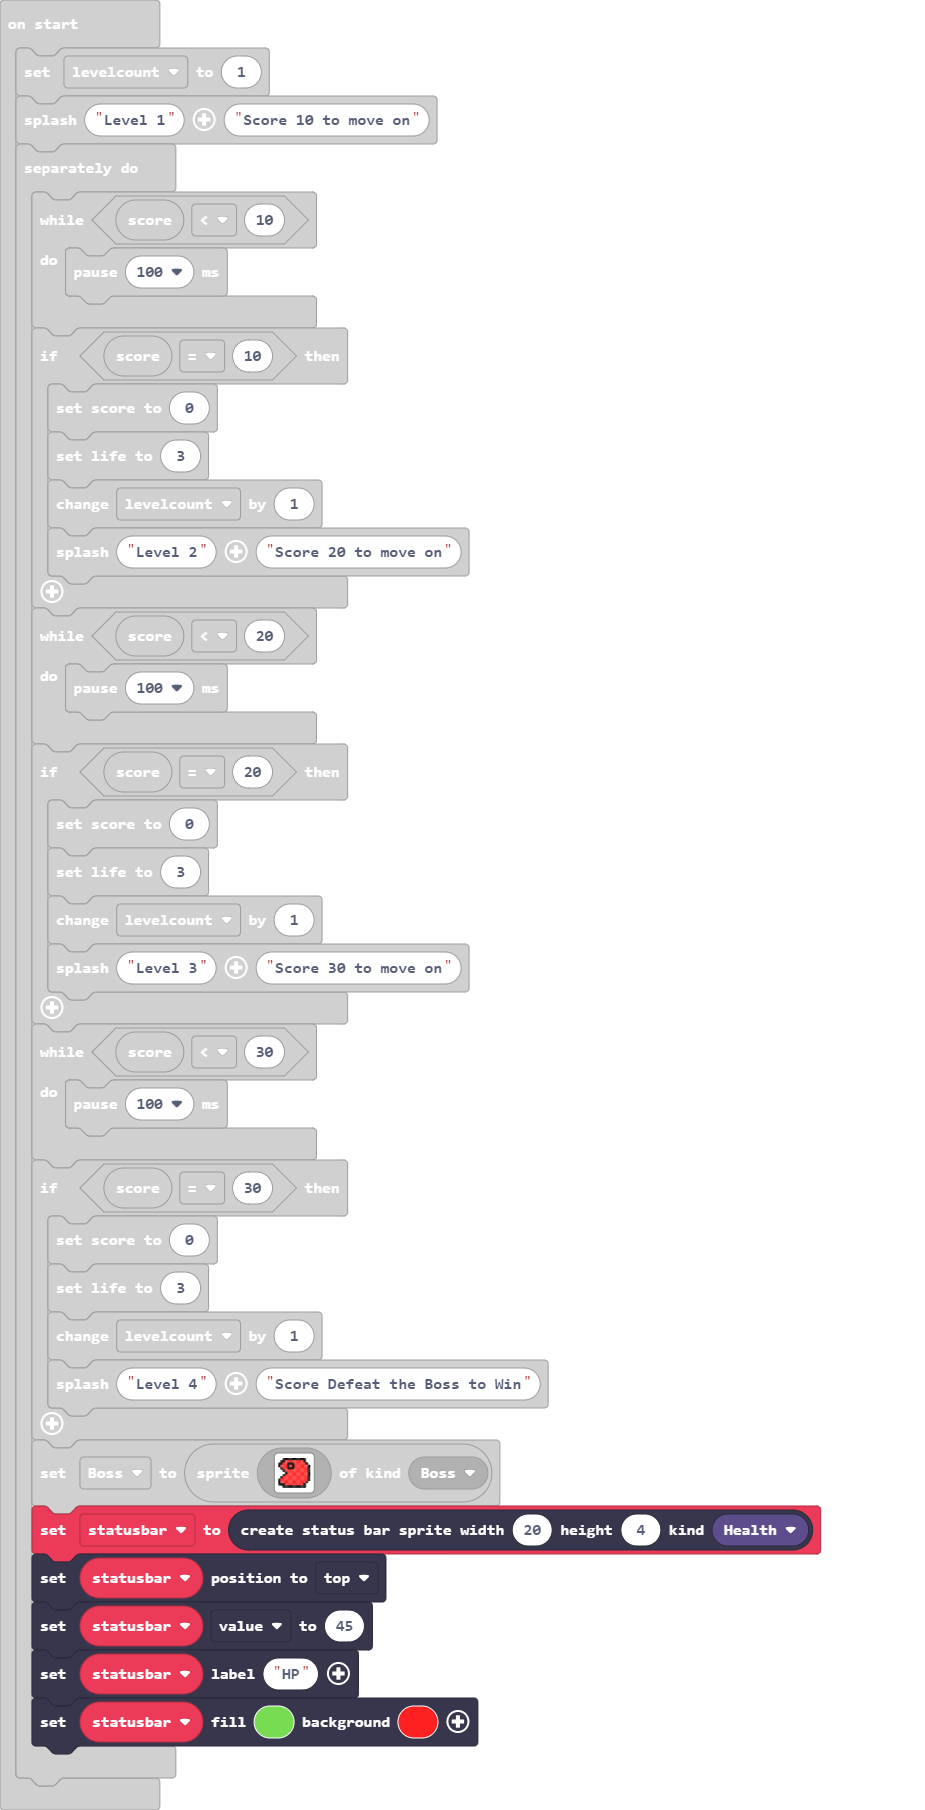
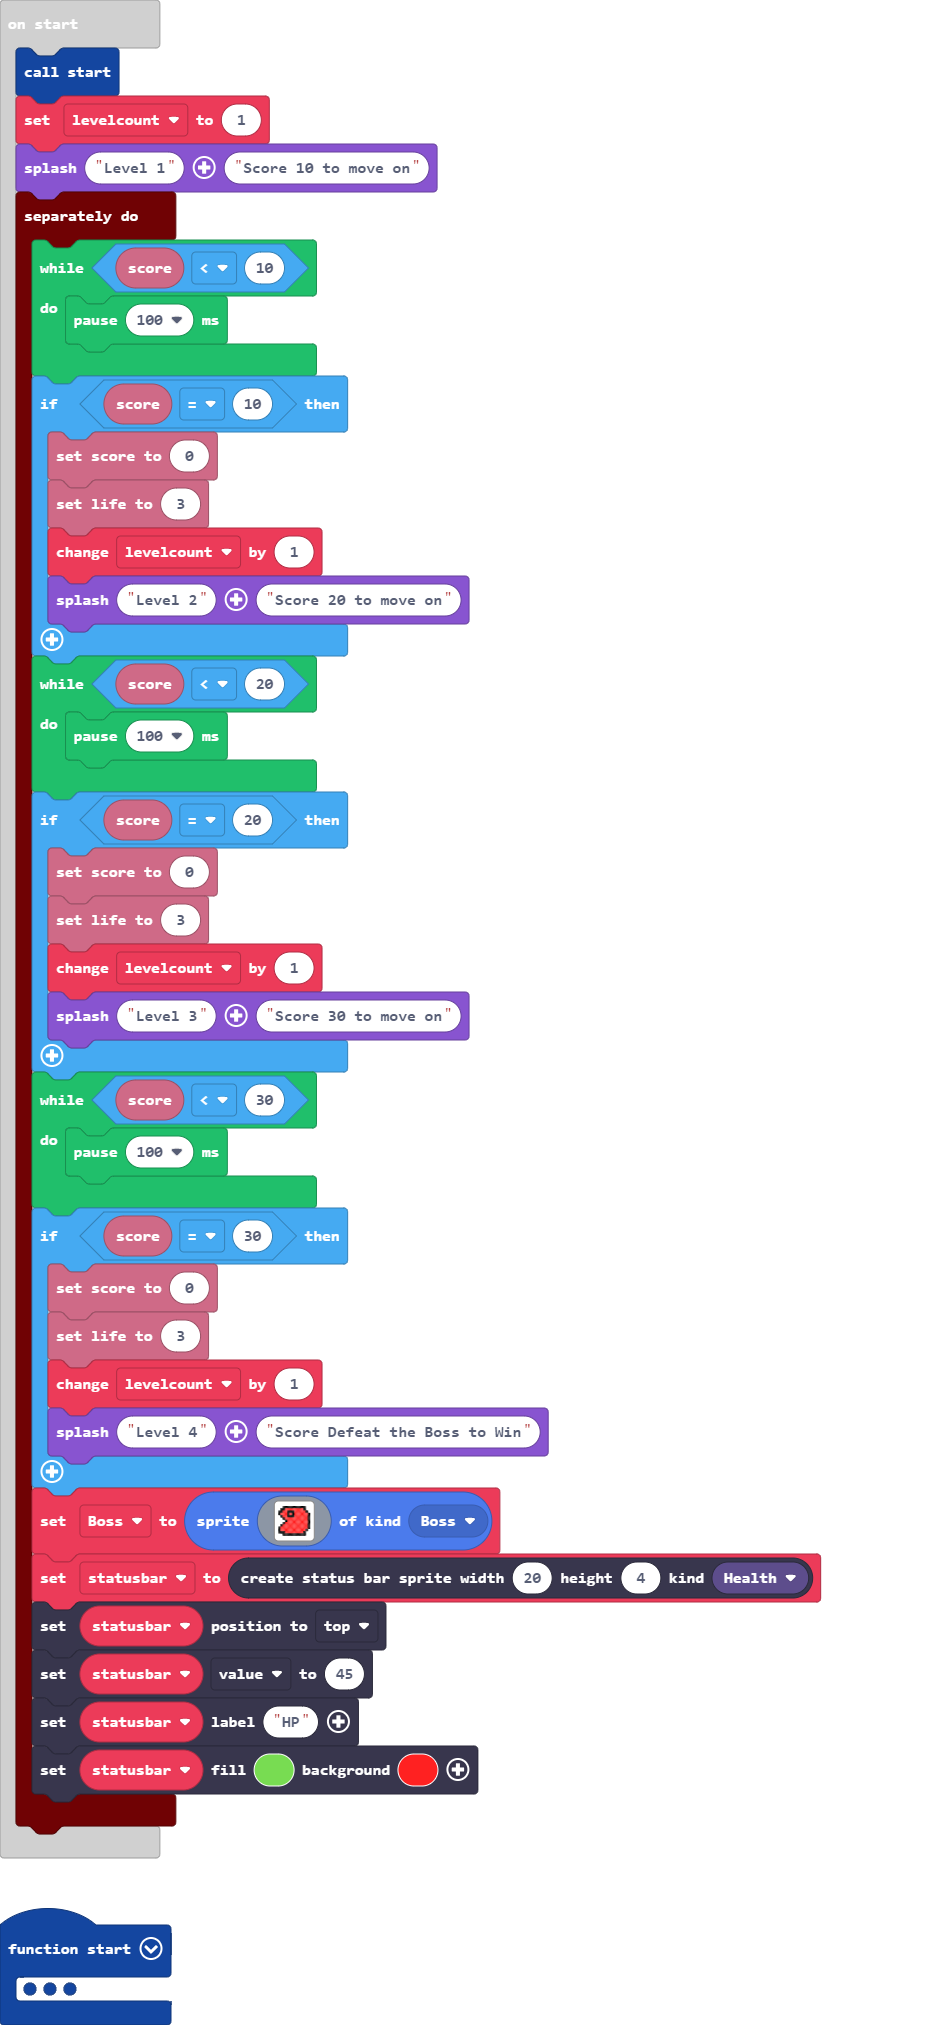
Recreated Start

diff --git a/main.ts b/main.ts
@@ -3,7 +3,6 @@ namespace SpriteKind {
     export const Boss = SpriteKind.create()
 }
 controller.A.onEvent(ControllerButtonEvent.Pressed, function () {
-    let spaceship: Sprite = null
     music.pewPew.play()
     dart = sprites.createProjectileFromSprite(img`
         . . . . . . . . . . . . . . . . 
@@ -39,6 +38,25 @@ sprites.onOverlap(SpriteKind.Player, SpriteKind.Food, function (sprite, otherSpr
     otherSprite.destroy(effects.hearts, 500)
     info.changeLifeBy(1)
 })
+function start () {
+    spaceship = sprites.create(img`
+        . . f f f f f f f f f f f f . . 
+        . . f 5 5 5 5 5 5 5 5 5 5 f f . 
+        . f 5 5 5 5 5 5 5 f f f 5 5 f f 
+        f 5 5 5 5 5 5 5 5 f 1 f 5 5 5 f 
+        f 5 5 5 5 5 5 5 5 f f f 5 5 f . 
+        f 5 5 5 5 5 5 5 5 5 5 5 5 f . . 
+        f 5 5 5 5 5 5 5 5 5 5 5 f . . . 
+        f 5 5 5 5 5 5 5 5 5 5 5 5 f . . 
+        f 5 5 5 5 5 5 5 5 5 5 5 5 5 f . 
+        . f 5 5 5 5 5 5 5 5 5 5 5 5 5 f 
+        . . f 5 5 5 5 5 5 5 5 5 5 f f f 
+        . . f f f f f f f f f f f f . . 
+        `, SpriteKind.Player)
+    Boss.setFlag(SpriteFlag.StayInScreen, true)
+    info.setLife(3)
+    controller.moveSprite(spaceship, 200, 200)
+}
 sprites.onOverlap(SpriteKind.Projectile, SpriteKind.Enemy, function (sprite, otherSprite) {
     otherSprite.destroy()
     sprite.destroy(effects.fire, 100)
@@ -52,9 +70,11 @@ sprites.onOverlap(SpriteKind.Player, SpriteKind.Enemy, function (sprite, otherSp
 let bogey: Sprite = null
 let Speed_Sprite: Sprite = null
 let Life: Sprite = null
+let spaceship: Sprite = null
 let dart: Sprite = null
 let statusbar: StatusBarSprite = null
 let Boss: Sprite = null
+start()
 let levelcount = 1
 game.splash("Level 1", "Score 10 to move on")
 timer.background(function () {

diff --git a/tilemap.g.ts b/tilemap.g.ts
@@ -1,0 +1,7 @@
+// Auto-generated code. Do not edit.
+namespace myTiles {
+    //% fixedInstance jres blockIdentity=images._tile
+    export const transparency16 = image.ofBuffer(hex``);
+
+}
+// Auto-generated code. Do not edit.
